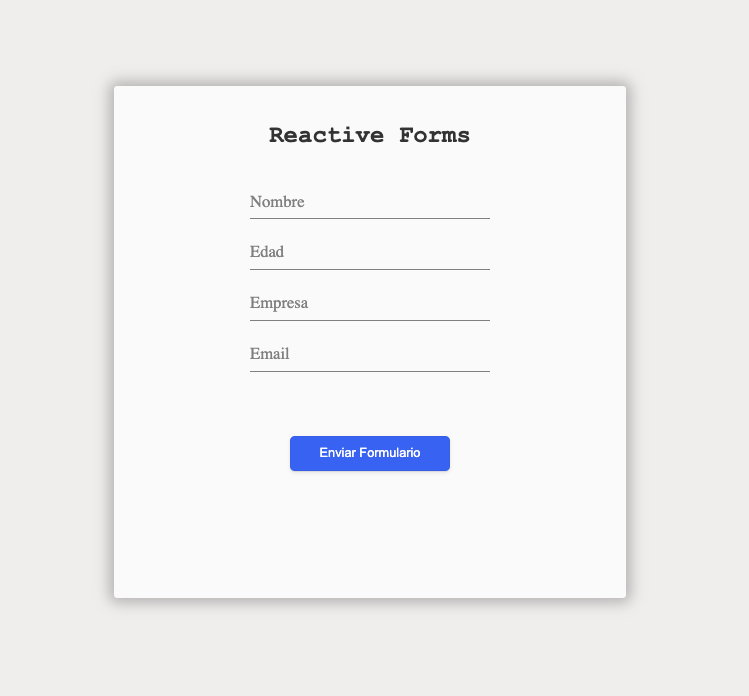
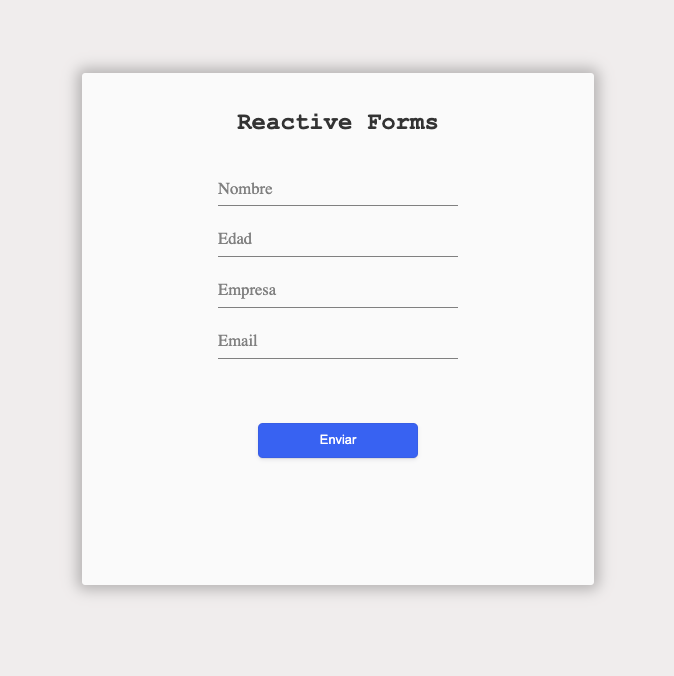
fix button text

diff --git a/src/app/app.component.html b/src/app/app.component.html
@@ -25,7 +25,7 @@
           <label for="Email" class="form__label">Email</label>
         </div>
      
-        <button class="btn" [disabled]="false"> Enviar Formulario </button>
+        <button class="btn" [disabled]="false"> Enviar </button>
       </form>
      
   </div>
